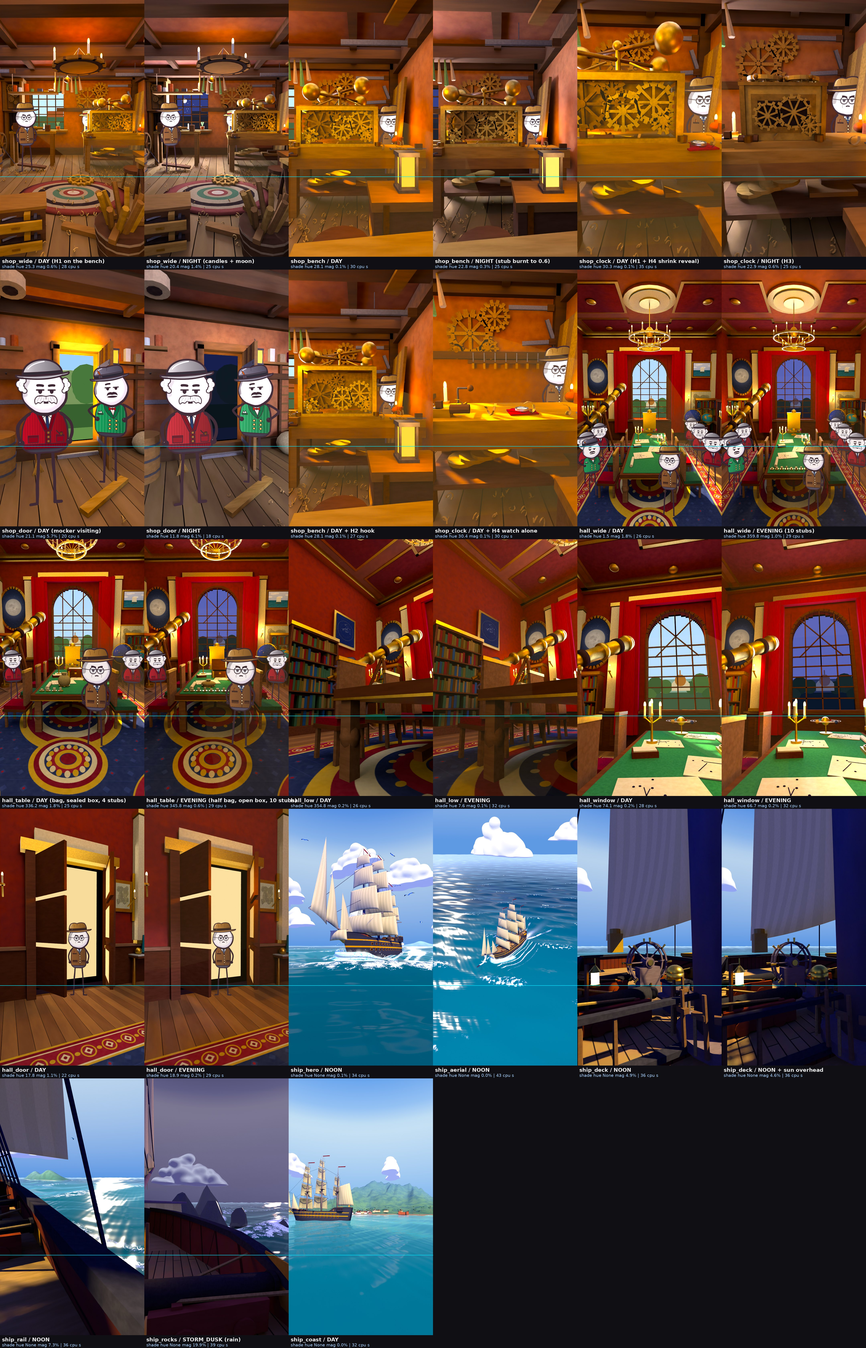
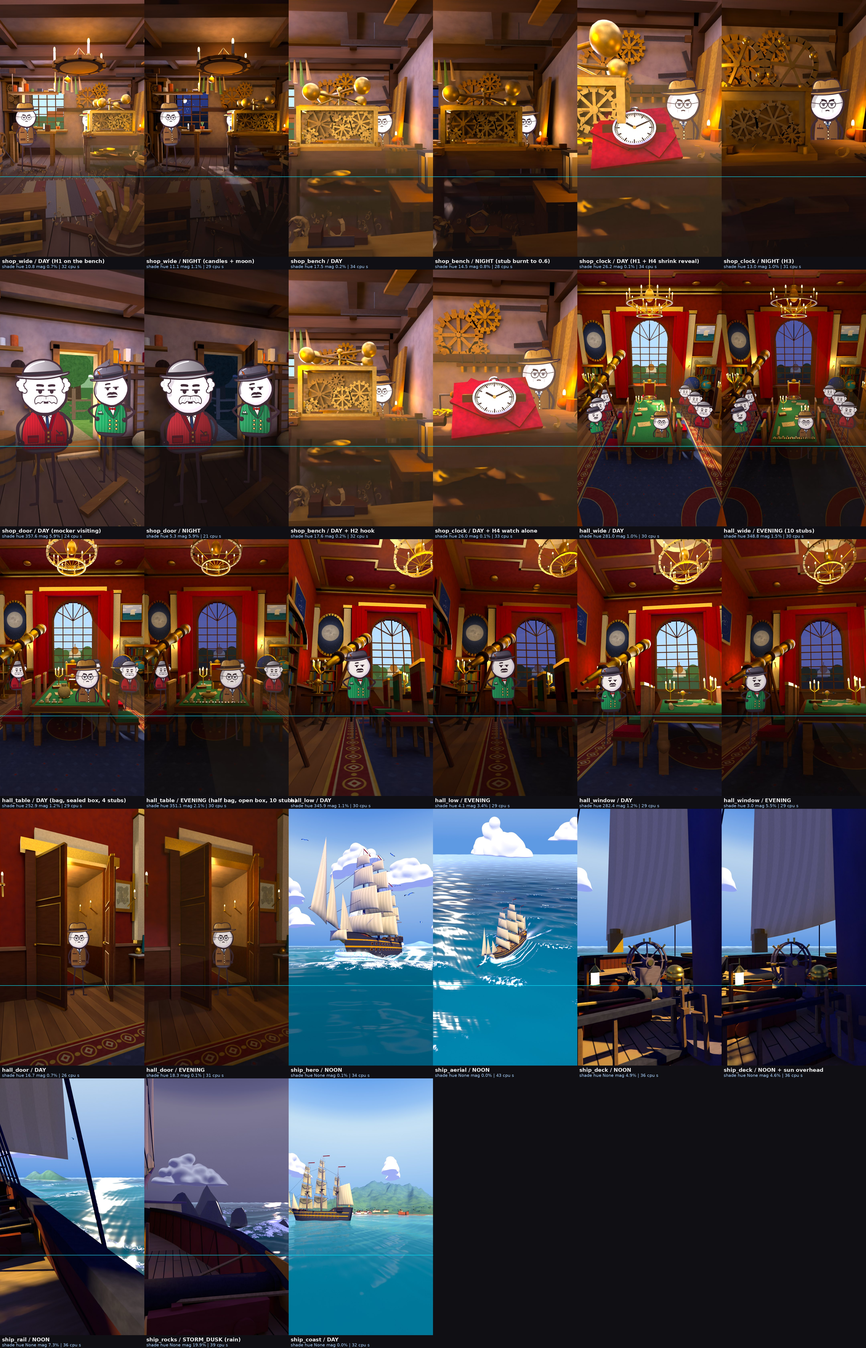
Film 19: workshop+hall fix round
Claude-Session: https://claude.ai/code/session_017iwyCuVqr4pVQferrZ24jv

diff --git a/film/v3/set3d19/h19_shop.py b/film/v3/set3d19/h19_shop.py
@@ -74,7 +74,7 @@ def shop_mats():
     M['grey'] = mat('grey', '#9aa0b0')
     M['wick'] = mat('wick', '#2a2020')
     M['rug1'] = mat('rug1', '#7a4232', '#86503a', scale=14); M['rug2'] = mat('rug2', '#9a7c4c', '#a68858', scale=14); M['rug3'] = mat('rug3', '#4a5a38', '#566a40', scale=14); M['rug4'] = mat('rug4', '#b8a47c', '#a89468', scale=14)
-    M['rugg'] = mat('rugg', '#7c6c58', '#8a7a64', scale=14); M['rugd'] = mat('rugd', '#44382e', '#52443a', scale=14)
+    M['rugg'] = mat('rugg', '#7c6c58', '#8a7a64', scale=14); M['rugd'] = mat('rugd', '#5c4a3a', '#6a5646', scale=14)
     M['brassm'] = metal_mat('brassm', '#cb9f48', '#dcb25a', rough=0.24, spec=0.8, metallic=0.88); M['ceilp'] = mat('ceilp', '#6a5244', '#7a6050', scale=1.4, contrast=1.2)
     M['flame'] = mat_emit('flame', '#ffc860', 28.0)
     M['lampg'] = mat_emit('lampg', '#e89a48', 0.6)
@@ -453,7 +453,7 @@ def build_shop(SET, preset, light):
     PRESET_FG = SET['preset']
     if preset == 'shop_door': chest(-1.6, -0.6, 0.6, 0.4); basket(-0.15, -0.35); case(-2.05, 0.9); stump(1.45, -0.9, r=0.24, h=0.32)
     else: chest(-0.55, -0.6, 0.62, 0.2); basket(0.5, -0.85); case(-2.05, 0.9); stump(0.75, -1.5, r=0.24, h=0.32)
-    mb.box(M['honey'], (-0.2, -1.5, 0.022), (0.9, 0.12, 0.044), rz=0.5); mb.box(M['oak'], (0.25, -0.6, 0.022), (0.7, 0.1, 0.044), rz=-0.35)
+    mb.box(M['oak'], (-0.2, -1.5, 0.022), (0.9, 0.12, 0.044), rz=0.5); mb.box(M['oakd'], (0.25, -0.6, 0.022), (0.7, 0.1, 0.044), rz=-0.35)
     mb.box(M['oakd'], (-0.2, -1.5, 0.006), (0.7, 0.08, 0.012), rz=0.5); mb.box(M['oakd'], (0.25, -0.6, 0.006), (0.5, 0.07, 0.012), rz=-0.35)           # dark contact strip under each offcut: they lie on the boards
     horse(1.45, 0.0)
     # a smoothing plane + a curl of honey shavings on the sawhorse plank, 1-2 D from the lens in shop_bench (bottom-left foreground)

diff --git a/film/v3/set3d19/API.md b/film/v3/set3d19/API.md
@@ -53,3 +53,9 @@ Indoor tiles (workshop, hall): the shade is warm by design (approved indoor exce
 
 ## Hand props (how render workers do them)
 The set only provides WORLD props. Everything a character holds is drawn by cast19 in the cards: the H4 watch in a hand, the quadrant, a pocket watch, a quill, the King's pocket watch, a lantern. World props on the set: the four clocks (set_clock), the money bag, the sealed box, the candle stubs, the King's chair, the regulator, the quadrant on its stand, the telescope, orrery, globes, charts and quill + ink on the table, the bench plane / mallet / chisels / saw.
+
+## Fix round (WORKSHOP + HALL, after the SET gate)
+- **Caption band**: `STATE['caption_shade']` (set by build_shop / build_hall, NOT by the ship) makes `make_camera` attach `caption_shade`, a camera-only card that blends the frame toward warm dark brown from row ~740-770 (0 %) to row ~890-900 (50-68 %) and the bottom edge (62-80 %). It affects no light. Band y 880-950 now averages 0.01-0.06 linear luminance (see below); ship tiles are unchanged (opt-in).
+- **WORKSHOP**: dusty ochre-grey plaster + walnut bench (#6b4a2e) + violet fill (orange share of saturated pixels 92-96 % -> 64-77 %); DAY sun 36 W warm-grey; NIGHT = moon key + candle pools only (fill 0.08). H4 watch: hero scale 2.3 (about 30 cm), tilted 43 deg to the lens on a ledger, slot in front of the bench, about 200 px wide in shop_clock; `set_clock([1,4])` puts H1 at x 0.5, H4 at x 1.12. `harrison_bench` mark is now x 1.8 m. H3: brass #cb9f48, two upright polished rings. Warm iron (no blue bars); brass rims never black. Rag rug = muted stripes; gear moved to the bench; offcut planks lie flat on a contact strip; plane + shavings on the sawhorse plank (shop_bench bottom-left). Chest + lantern moved right (x 2.0 m). Front-wall window, coat pegs with coat / apron / hat, upright saws. **Outside the door is real geometry** (`build_exterior`): path, rail fence with an open gate, hedge, bushes, trees in three depth layers, far hill, gradient sky, a cart; self-lit, switched by `apply_light` (night colours + moon).
+- **HALL**: muted carpet (gold #a8894a, crimson #7a2a2a, one small soft oval medallion); King's chair is a gilt armchair with crimson velvet seat, back panel and arm pads, facing the camera; panelled door leaves (one slab, 3 raised panels per face, gilt moulding, brass knob, 3.1 m under the 3.2 m lintel); real corridor (2.6 x 2.2 m, runner, two sconce pairs, portrait, console, own warm lights `corr`); Georgian fanlight (radial bars, no X); small yellowed curled charts; EVENING exposure -0.45, fill 0.04, candles 1.05, chandelier 0.75 (mean linear luminance about 55 % of DAY, warmer).
+- **Cameras / marks** (heads 450-760 for every WORKSHOP and HALL preset, see `heads.txt`): hall_wide (0,-3.2,3.6)->(0,3.5,1.15); hall_table look z 1.4 (tilted up); hall_low (-1.9,-1.2,0.7)->(-1.7,2.0,1.35); hall_window (-0.6,-1.6,1.1)->(-1.3,5.6,2.2); shop_clock (1.15,0.45,1.3)->(1.25,1.9,1.1). Marks (m): mocker_table (-1.75,1.35), astro_a (-1.9,2.2), astro_b (-1.9,3.2), astro_c (1.9,1.8), astro_d (1.9,2.9), astro_e (1.7,3.9), harrison_table (0.35,0.9).
